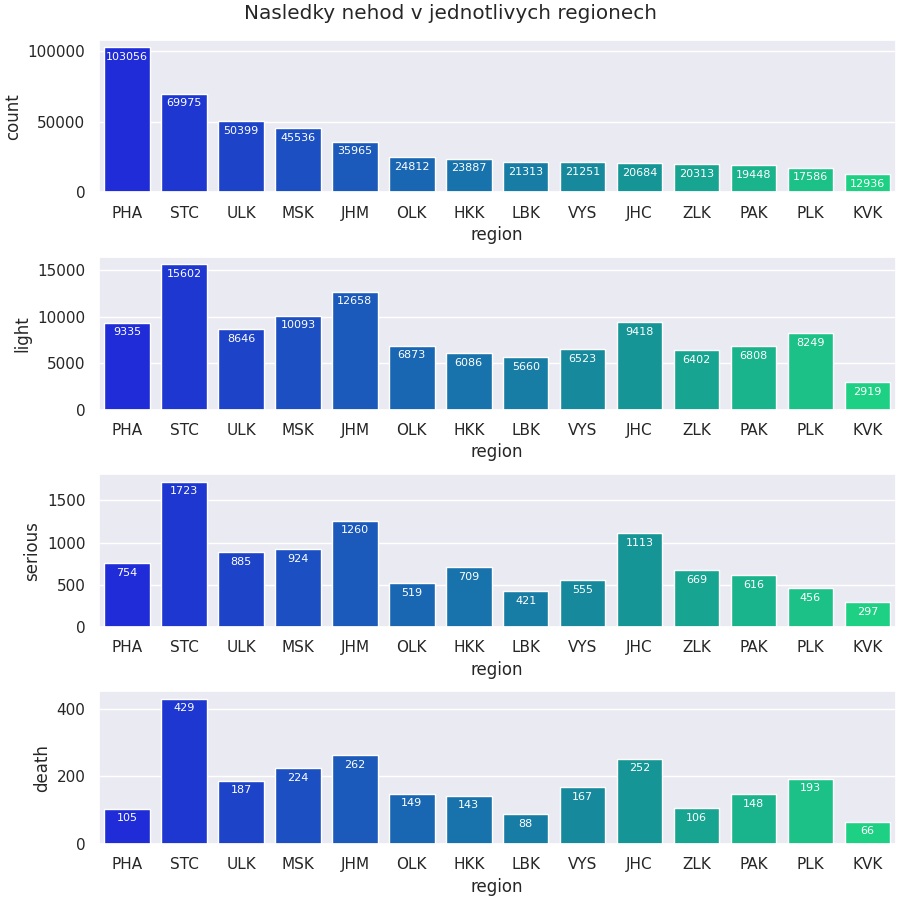
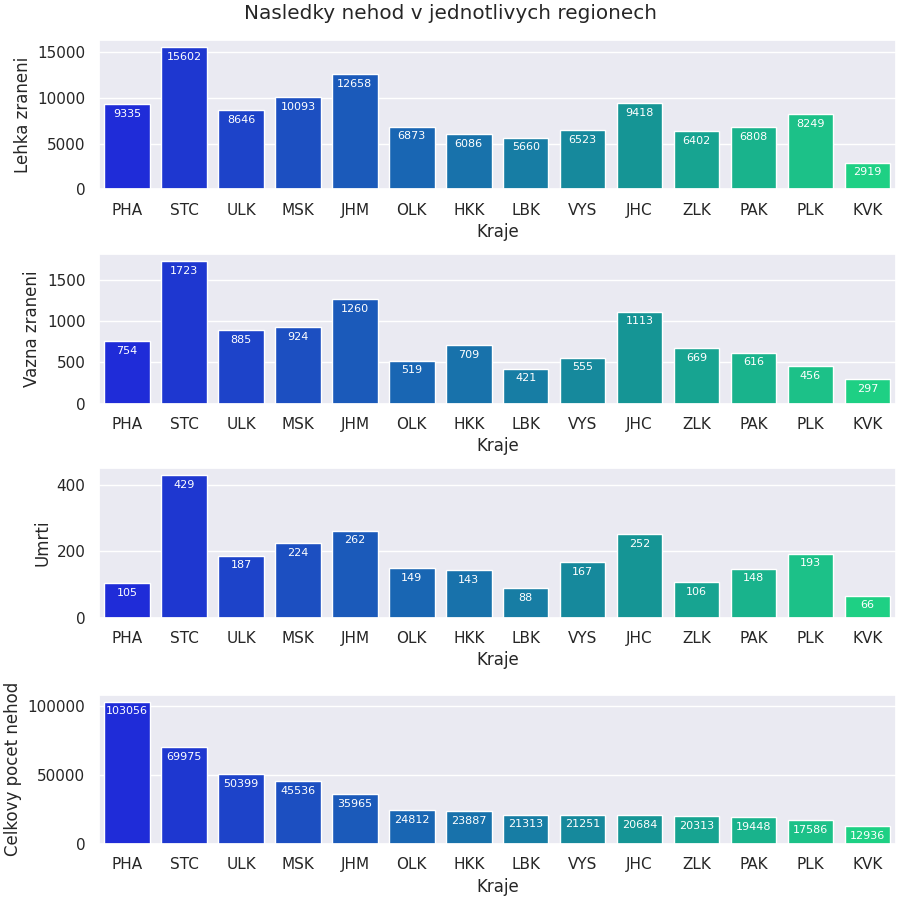
18_4_2021

diff --git a/IZV/analysis.py b/IZV/analysis.py
@@ -82,14 +82,23 @@ def plot_conseq(df: pd.DataFrame, fig_location: str = None,
     conseq_to_plot = conseq_to_plot.reset_index()
 
     palette = "winter"
-    ax0 = sns.barplot(ax=axs[0], x="region", y="count", data=conseq_to_plot, palette=palette,
+    ax0 = sns.barplot(ax=axs[0], x="region", y="light", data=conseq_to_plot, palette=palette,
                 order=conseq_to_plot.sort_values('count', ascending=False).region)
-    ax1 = sns.barplot(ax=axs[1], x="region", y="light", data=conseq_to_plot, palette=palette,
+    ax1 = sns.barplot(ax=axs[1], x="region", y="serious", data=conseq_to_plot, palette=palette,
                 order=conseq_to_plot.sort_values('count', ascending=False).region)
-    ax2 = sns.barplot(ax=axs[2], x="region", y="serious", data=conseq_to_plot, palette=palette,
+    ax2 = sns.barplot(ax=axs[2], x="region", y="death", data=conseq_to_plot, palette=palette,
                 order=conseq_to_plot.sort_values('count', ascending=False).region)
-    ax3 = sns.barplot(ax=axs[3], x="region", y="death", data=conseq_to_plot, palette=palette,
+    ax3 = sns.barplot(ax=axs[3], x="region", y="count", data=conseq_to_plot, palette=palette,
                 order=conseq_to_plot.sort_values('count', ascending=False).region)
+
+    ax0.set_ylabel('Lehka zraneni')
+    ax1.set_ylabel('Vazna zraneni')
+    ax2.set_ylabel('Umrti')
+    ax3.set_ylabel('Celkovy pocet nehod')
+
+    for ax in axs:
+        ax.set_xlabel('Kraje')
+
 
     annotate_barplot(ax0)
     annotate_barplot(ax1)
@@ -196,7 +205,7 @@ def plot_surface(df: pd.DataFrame, fig_location: str = None,
     g.fig.subplots_adjust(top=0.9, bottom=0.1)
     g.fig.suptitle('Stav vozovky v jednotlivých měsících')
     g.fig.subplots_adjust(wspace=0.01, hspace=0.1)
-    g.set_axis_labels("Mesic", "Pocet nehod")
+    g.set_axis_labels("Rok", "Pocet nehod")
     g.set_titles("{col_name}")
 
     #https://stackoverflow.com/questions/43727278/how-to-set-readable-xticks-in-seaborns-facetgrid
